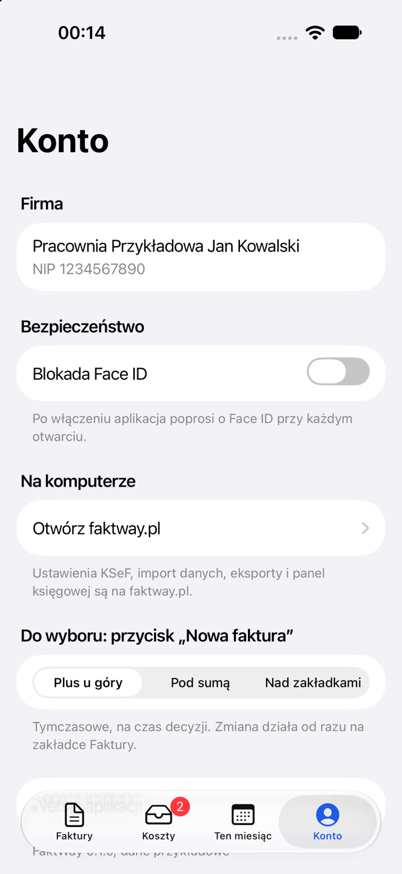
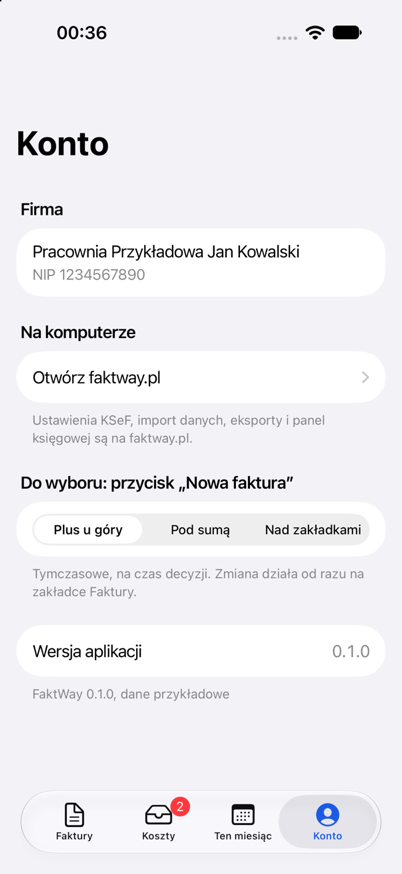
Aplikacja mobilna M3: poprawki z przeglądu kodu
- odmiana „N faktur” (5 faktur, 22 faktury) w podsumowaniu;
- „Najbliższy termin” mówi „dziś”, „jutro” albo „N dni po terminie”
  zamiast „za 0 dni” i liczb ujemnych;
- „Do zapłaty” obejmuje niezapłacone faktury w trakcie wysyłki do KSeF;
- usunięty przełącznik Face ID, który niczego nie robił (wraca w M4);
- jedna wibracja przy przesunięciu zamiast dwóch;
- brutto pozycji liczone tak samo jak brutto faktury (netto i VAT
  zaokrąglane osobno), więc pozycje sumują się do nagłówka;
- zapłata i udostępnianie w jednym miejscu (src/stan/faktury.tsx)
  zamiast kopii w wierszu i szczególe.

diff --git a/mobile/src/komponenty/wiersz-faktury.tsx b/mobile/src/komponenty/wiersz-faktury.tsx
@@ -4,11 +4,10 @@
  * (docs/mobile/ZASADY-DESIGNU.md, sekcja 5). Każda akcja z gestu jest też
  * na ekranie szczegółu.
  */
-import * as Haptics from 'expo-haptics';
 import { Link } from 'expo-router';
 import { SymbolView } from 'expo-symbols';
 import { useRef, useState } from 'react';
-import { Pressable, Share, StyleSheet, useWindowDimensions, View, type ColorValue } from 'react-native';
+import { Pressable, StyleSheet, useWindowDimensions, View, type ColorValue } from 'react-native';
 import ReanimatedSwipeable, { type SwipeableMethods } from 'react-native-gesture-handler/ReanimatedSwipeable';
 import Animated, { useAnimatedStyle, type SharedValue } from 'react-native-reanimated';
 
@@ -16,7 +15,7 @@ import { DZIS, type Faktura } from '@/dane-przykladowe';
 import { Tekst } from '@/komponenty/tekst';
 import { dataKrotka, kwota } from '@/lib/format';
 import { doZaplaty, statusFaktury } from '@/lib/status-faktury';
-import { useStanFaktur } from '@/stan/faktury';
+import { udostepnijFakture, useStanFaktur } from '@/stan/faktury';
 import { useKolory } from '@/wyglad/kolory';
 import { CEL_DOTYKU, MARGINES, ODSTEP, SKALA_PIONOWA } from '@/wyglad/odstepy';
 
@@ -26,7 +25,7 @@ const NA_AKCJI = '#FFFFFF';
 
 export function WierszFaktury({ faktura: f }: { faktura: Faktura }) {
   const kolory = useKolory();
-  const { ustawZaplate } = useStanFaktur();
+  const { przelaczZaplate } = useStanFaktur();
   const { fontScale } = useWindowDimensions();
   const swipe = useRef<SwipeableMethods>(null);
   // Link z `asChild` spłaszcza style (Slot), więc styl zależny od wciśnięcia liczymy ze stanu.
@@ -34,15 +33,6 @@ export function WierszFaktury({ faktura: f }: { faktura: Faktura }) {
   const status = statusFaktury(f, DZIS);
   const pionowo = fontScale >= SKALA_PIONOWA;
   const mozeZaplacic = doZaplaty(f) || f.zaplacona;
-
-  const przelaczZaplate = () => {
-    ustawZaplate(f.id, !f.zaplacona);
-    void Haptics.notificationAsync(Haptics.NotificationFeedbackType.Success);
-  };
-
-  const udostepnij = () => {
-    void Share.share({ message: `Faktura ${f.numer} dla ${f.kontrahent}, ${kwota(f.brutto)}.` });
-  };
 
   const akcja = (postep: SharedValue<number>) => (
     <AkcjaPrzesuniecia
@@ -89,10 +79,10 @@ export function WierszFaktury({ faktura: f }: { faktura: Faktura }) {
           <Link.MenuAction
             title={f.zaplacona ? 'Cofnij oznaczenie zapłaty' : 'Oznacz jako zapłaconą'}
             icon={f.zaplacona ? 'arrow.uturn.backward' : 'checkmark.circle'}
-            onPress={przelaczZaplate}
+            onPress={() => przelaczZaplate(f)}
           />
         ) : null}
-        <Link.MenuAction title="Udostępnij" icon="square.and.arrow.up" onPress={udostepnij} />
+        <Link.MenuAction title="Udostępnij" icon="square.and.arrow.up" onPress={() => udostepnijFakture(f)} />
       </Link.Menu>
     </Link>
   );
@@ -106,9 +96,8 @@ export function WierszFaktury({ faktura: f }: { faktura: Faktura }) {
       rightThreshold={SZEROKOSC_AKCJI / 2}
       overshootRight={false}
       renderRightActions={akcja}
-      onSwipeableWillOpen={() => void Haptics.impactAsync(Haptics.ImpactFeedbackStyle.Light)}
       onSwipeableOpen={() => {
-        przelaczZaplate();
+        przelaczZaplate(f);
         swipe.current?.close();
       }}>
       {tresc}

diff --git a/mobile/src/app/(faktury)/faktura/[id].tsx b/mobile/src/app/(faktury)/faktura/[id].tsx
@@ -1,15 +1,14 @@
-import * as Haptics from 'expo-haptics';
 import { Stack, useIsPreview, useLocalSearchParams } from 'expo-router';
-import { Share, StyleSheet, View } from 'react-native';
+import { StyleSheet, View } from 'react-native';
 
-import { DZIS, type StatusKsef } from '@/dane-przykladowe';
+import { bruttoPozycji, DZIS, type StatusKsef } from '@/dane-przykladowe';
 import { EkranListy, Sekcja, Wiersz } from '@/komponenty/lista';
 import { PrzyciskGlowny } from '@/komponenty/przycisk-glowny';
 import { StanPusty } from '@/komponenty/stan-pusty';
 import { Tekst } from '@/komponenty/tekst';
 import { dataPelna, kwota } from '@/lib/format';
 import { doZaplaty, statusFaktury } from '@/lib/status-faktury';
-import { useStanFaktur } from '@/stan/faktury';
+import { udostepnijFakture, useStanFaktur } from '@/stan/faktury';
 import { MARGINES, ODSTEP } from '@/wyglad/odstepy';
 
 const NAZWA_STATUSU_KSEF: Record<StatusKsef, string> = {
@@ -21,7 +20,7 @@ const NAZWA_STATUSU_KSEF: Record<StatusKsef, string> = {
 
 export default function EkranFaktury() {
   const { id } = useLocalSearchParams<{ id: string }>();
-  const { faktury, ustawZaplate } = useStanFaktur();
+  const { faktury, przelaczZaplate } = useStanFaktur();
   // W podglądzie z przytrzymania wiersza ekran nie ustawia paska nawigacji.
   const podglad = useIsPreview();
   const f = faktury.find((x) => x.id === id);
@@ -36,22 +35,13 @@ export default function EkranFaktury() {
   const status = statusFaktury(f, DZIS);
   const mozeZaplacic = doZaplaty(f) || f.zaplacona;
 
-  const udostepnij = () => {
-    void Share.share({ message: `Faktura ${f.numer} dla ${f.kontrahent}, ${kwota(f.brutto)}.` });
-  };
-
-  const przelaczZaplate = () => {
-    ustawZaplate(f.id, !f.zaplacona);
-    void Haptics.notificationAsync(Haptics.NotificationFeedbackType.Success);
-  };
-
   return (
     <>
       {podglad ? null : (
         <>
           <Stack.Screen options={{ title: f.numer }} />
           <Stack.Toolbar placement="right">
-            <Stack.Toolbar.Button icon="square.and.arrow.up" accessibilityLabel="Udostępnij" onPress={udostepnij} />
+            <Stack.Toolbar.Button icon="square.and.arrow.up" accessibilityLabel="Udostępnij" onPress={() => udostepnijFakture(f)} />
           </Stack.Toolbar>
         </>
       )}
@@ -75,7 +65,7 @@ export default function EkranFaktury() {
               tytul={f.zaplacona ? 'Cofnij oznaczenie zapłaty' : 'Oznacz jako zapłaconą'}
               ikona={f.zaplacona ? 'arrow.uturn.backward' : 'checkmark'}
               wariant={f.zaplacona ? 'drugorzedny' : 'glowny'}
-              onPress={przelaczZaplate}
+              onPress={() => przelaczZaplate(f)}
             />
           </View>
         ) : null}
@@ -92,7 +82,7 @@ export default function EkranFaktury() {
               key={i}
               tytul={p.nazwa}
               podtytul={`${p.ilosc} ${p.jednostka} × ${kwota(p.cenaNetto)} netto, VAT ${p.stawkaVat}%`}
-              wartosc={kwota(Math.round(p.ilosc * p.cenaNetto * (1 + p.stawkaVat / 100)))}
+              wartosc={kwota(bruttoPozycji(p))}
             />
           ))}
         </Sekcja>

diff --git a/mobile/src/stan/faktury.tsx b/mobile/src/stan/faktury.tsx
@@ -3,16 +3,20 @@
  * wspólne dla listy i szczegółu. Etap M6 zastąpi to danymi z bazy, a M9
  * zapisem przez API (`markInvoicePaidAction` po stronie strony).
  */
+import * as Haptics from 'expo-haptics';
 import { createContext, use, useMemo, useState, type ReactNode } from 'react';
+import { Share } from 'react-native';
 
 import { FAKTURY, type Faktura } from '@/dane-przykladowe';
+import { kwota } from '@/lib/format';
 
 /** Warianty miejsca „Nowa faktura” do decyzji D7 (plan, sekcja 2). */
 export type WariantNowej = 'pasek' | 'pod-suma' | 'nad-zakladkami';
 
 type Stan = {
   faktury: Faktura[];
-  ustawZaplate: (id: string, zaplacona: boolean) => void;
+  /** Oznacza albo cofa zapłatę (z wibracją); jedno miejsce dla gestu, menu i przycisku. */
+  przelaczZaplate: (f: Faktura) => void;
   wariantNowej: WariantNowej;
   ustawWariantNowej: (w: WariantNowej) => void;
 };
@@ -28,7 +32,10 @@ export function StanFaktur({ children }: { children: ReactNode }) {
   const wartosc = useMemo<Stan>(
     () => ({
       faktury: FAKTURY.map((f) => ({ ...f, zaplacona: zaplacone[f.id] ?? f.zaplacona })),
-      ustawZaplate: (id, zaplacona) => setZaplacone((z) => ({ ...z, [id]: zaplacona })),
+      przelaczZaplate: (f) => {
+        setZaplacone((z) => ({ ...z, [f.id]: !f.zaplacona }));
+        void Haptics.notificationAsync(Haptics.NotificationFeedbackType.Success);
+      },
       wariantNowej,
       ustawWariantNowej,
     }),
@@ -36,6 +43,11 @@ export function StanFaktur({ children }: { children: ReactNode }) {
   );
 
   return <Kontekst value={wartosc}>{children}</Kontekst>;
+}
+
+/** Systemowy arkusz udostępniania z opisem faktury (PDF dochodzi w M9). */
+export function udostepnijFakture(f: Faktura): void {
+  void Share.share({ message: `Faktura ${f.numer} dla ${f.kontrahent}, ${kwota(f.brutto)}.` });
 }
 
 export function useStanFaktur(): Stan {

diff --git a/mobile/src/app/konto/index.tsx b/mobile/src/app/konto/index.tsx
@@ -1,12 +1,10 @@
 import { SegmentedControl } from '@expo/ui/community/segmented-control';
 import Constants from 'expo-constants';
 import * as WebBrowser from 'expo-web-browser';
-import { useState } from 'react';
-import { StyleSheet, Switch, View } from 'react-native';
+import { StyleSheet, View } from 'react-native';
 
 import { EkranListy, Sekcja, Wiersz } from '@/komponenty/lista';
 import { useStanFaktur, type WariantNowej } from '@/stan/faktury';
-import { useKolory } from '@/wyglad/kolory';
 import { MARGINES, ODSTEP } from '@/wyglad/odstepy';
 
 const STRONA = 'https://faktway.pl';
@@ -18,29 +16,12 @@ const WARIANTY: { klucz: WariantNowej; nazwa: string }[] = [
 ];
 
 export default function EkranKonta() {
-  const kolory = useKolory();
   const { wariantNowej, ustawWariantNowej } = useStanFaktur();
-  // Blokadę Face ID podłącza etap M4; do tego czasu przełącznik pamięta tylko wybór.
-  const [faceId, setFaceId] = useState(false);
 
   return (
     <EkranListy>
       <Sekcja naglowek="Firma">
         <Wiersz tytul="Pracownia Przykładowa Jan Kowalski" podtytul="NIP 1234567890" zaznaczalna />
-      </Sekcja>
-
-      <Sekcja naglowek="Bezpieczeństwo" stopka="Po włączeniu aplikacja poprosi o Face ID przy każdym otwarciu.">
-        <Wiersz
-          tytul="Blokada Face ID"
-          prawaStrona={
-            <Switch
-              value={faceId}
-              onValueChange={setFaceId}
-              trackColor={{ true: kolory.akcent as string }}
-              accessibilityLabel="Blokada Face ID"
-            />
-          }
-        />
       </Sekcja>
 
       <Sekcja

diff --git a/mobile/src/lib/status-faktury.ts b/mobile/src/lib/status-faktury.ts
@@ -26,7 +26,26 @@ export function statusFaktury(f: Faktura, dzis: string): Status {
   return { tekst: `Termin ${dataKrotka(f.terminPlatnosci)}`, kolor: 'etykietaDrugorzedna', zalegla: false };
 }
 
-/** Faktura czeka na zapłatę (przyjęta przez KSeF i niezapłacona). */
+/**
+ * Faktura czeka na zapłatę: wysłana (przyjęta albo jeszcze w drodze do KSeF)
+ * i niezapłacona. Klient bywa winien pieniądze, zanim KSeF potwierdzi przyjęcie.
+ */
 export function doZaplaty(f: Faktura): boolean {
-  return f.statusKsef === 'przyjeta' && !f.zaplacona;
+  return (f.statusKsef === 'przyjeta' || f.statusKsef === 'wysylanie') && !f.zaplacona;
+}
+
+/** „1 faktura”, „2 faktury”, „5 faktur”, „22 faktury” (polska liczba mnoga). */
+export function ileFaktur(n: number): string {
+  if (n === 1) return '1 faktura';
+  const j = n % 10;
+  const d = n % 100;
+  return j >= 2 && j <= 4 && (d < 12 || d > 14) ? `${n} faktury` : `${n} faktur`;
+}
+
+/** Termin względem dziś: „dziś”, „jutro”, „za 3 dni”, „2 dni po terminie”. */
+export function kiedyTermin(dzis: string, termin: string): string {
+  const za = dniMiedzy(dzis, termin);
+  if (za === 0) return 'dziś';
+  if (za === 1) return 'jutro';
+  return za > 0 ? `za ${dni(za)}` : `${dni(-za)} po terminie`;
 }

diff --git a/mobile/src/dane-przykladowe/index.ts b/mobile/src/dane-przykladowe/index.ts
@@ -34,6 +34,19 @@ export type Faktura = {
 
 const NIP = '1234567890';
 
+/** Netto i VAT pozycji zaokrąglane osobno; brutto faktury to ich suma, więc wiersze sumują się do nagłówka. */
+export function nettoPozycji(p: Pozycja): number {
+  return Math.round(p.ilosc * p.cenaNetto);
+}
+
+export function vatPozycji(p: Pozycja): number {
+  return Math.round((nettoPozycji(p) * p.stawkaVat) / 100);
+}
+
+export function bruttoPozycji(p: Pozycja): number {
+  return nettoPozycji(p) + vatPozycji(p);
+}
+
 function faktura(
   id: string,
   numer: string,
@@ -44,8 +57,8 @@ function faktura(
   statusKsef: StatusKsef,
   zaplacona: boolean,
 ): Faktura {
-  const netto = pozycje.reduce((s, p) => s + Math.round(p.ilosc * p.cenaNetto), 0);
-  const vat = pozycje.reduce((s, p) => s + Math.round((p.ilosc * p.cenaNetto * p.stawkaVat) / 100), 0);
+  const netto = pozycje.reduce((s, p) => s + nettoPozycji(p), 0);
+  const vat = pozycje.reduce((s, p) => s + vatPozycji(p), 0);
   return {
     id,
     numer,

diff --git a/mobile/src/app/miesiac/index.tsx b/mobile/src/app/miesiac/index.tsx
@@ -3,8 +3,8 @@ import { StyleSheet, View } from 'react-native';
 import { DZIS, MIESIAC } from '@/dane-przykladowe';
 import { EkranListy, Sekcja, Wiersz } from '@/komponenty/lista';
 import { Tekst } from '@/komponenty/tekst';
-import { dataKrotka, dniMiedzy, kwota } from '@/lib/format';
-import { dni } from '@/lib/status-faktury';
+import { dataKrotka, kwota } from '@/lib/format';
+import { kiedyTermin } from '@/lib/status-faktury';
 import { MARGINES, ODSTEP } from '@/wyglad/odstepy';
 
 export default function EkranMiesiaca() {
@@ -26,7 +26,7 @@ export default function EkranMiesiaca() {
         </Tekst>
         {najblizszy ? (
           <Tekst styl="subheadline" kolor="etykietaDrugorzedna">
-            Najbliższy termin {dataKrotka(najblizszy)}, za {dni(dniMiedzy(DZIS, najblizszy))}
+            Najbliższy termin {dataKrotka(najblizszy)}, {kiedyTermin(DZIS, najblizszy)}
           </Tekst>
         ) : null}
       </View>

diff --git a/mobile/src/app/(faktury)/index.tsx b/mobile/src/app/(faktury)/index.tsx
@@ -10,7 +10,7 @@ import { StanPusty } from '@/komponenty/stan-pusty';
 import { Tekst } from '@/komponenty/tekst';
 import { WierszFaktury } from '@/komponenty/wiersz-faktury';
 import { kwota } from '@/lib/format';
-import { doZaplaty, statusFaktury } from '@/lib/status-faktury';
+import { doZaplaty, ileFaktur, statusFaktury } from '@/lib/status-faktury';
 import { useStanFaktur } from '@/stan/faktury';
 import { MARGINES, ODSTEP } from '@/wyglad/odstepy';
 
@@ -82,7 +82,7 @@ export default function EkranFaktur() {
             </Tekst>
             {zalegle.length > 0 ? (
               <Tekst styl="subheadline" kolor="ostrzezenie">
-                {zalegle.length === 1 ? '1 faktura' : `${zalegle.length} faktury`} po terminie,{' '}
+                {ileFaktur(zalegle.length)} po terminie,{' '}
                 {kwota(suma(zalegle))}
               </Tekst>
             ) : (
